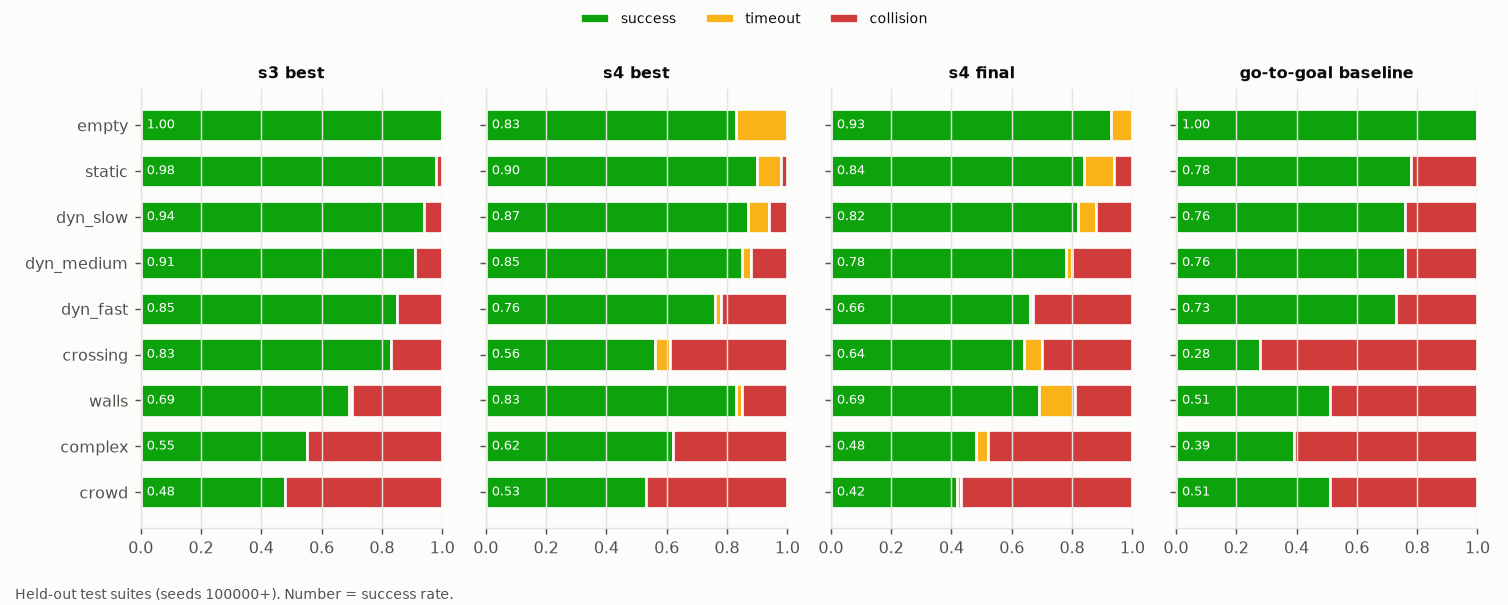
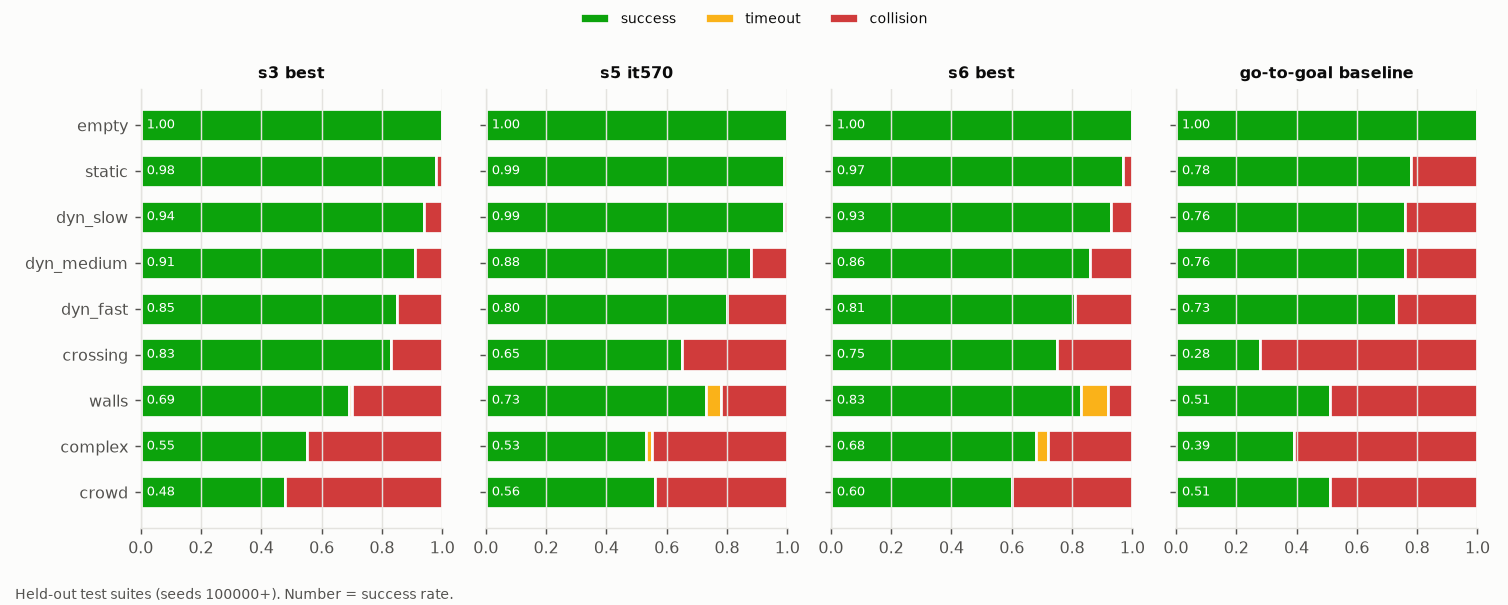
Stage 6 results: README table, updated figures
The s6 best checkpoint (iteration 1770) is tested on the same 100-episode suites as s5.
Wall collisions drop from 22 to 8, crossings go from 0.65 to 0.75 and complex scenes from 0.53 to 0.68.
plot_results now defaults to s3, s5, s6 and the go-to-goal baseline.

diff --git a/scripts/plot_results.py b/scripts/plot_results.py
@@ -3,7 +3,7 @@
 Usage:
   python scripts/plot_results.py                       # everything it can find, into figures/
   python scripts/plot_results.py --robust results/robust/s3_s4_baseline \\
-      --evals s3_best_100 s4_best s4_final gotogoal_100
+      --evals s3_best_100 s5_it570 s6_best gotogoal_100
 
 Inputs it reads (all optional, figures are skipped when their input is missing):
   logs/navrl/curriculum/<stage>/tb/       TensorBoard logs   -> training_curves.png
@@ -215,7 +215,7 @@ def main() -> None:
     ap = argparse.ArgumentParser()
     ap.add_argument("--runs", default=str(ROOT / "logs" / "navrl" / "curriculum"))
     ap.add_argument("--robust", default=str(ROOT / "results" / "robust" / "s3_s4_baseline"))
-    ap.add_argument("--evals", nargs="*", default=["s3_best_100", "s4_best", "s4_final", "gotogoal_100"])
+    ap.add_argument("--evals", nargs="*", default=["s3_best_100", "s5_it570", "s6_best", "gotogoal_100"])
     ap.add_argument("--out", default=str(ROOT / "figures"))
     args = ap.parse_args()
     out = Path(args.out)

diff --git a/README.md b/README.md
@@ -393,6 +393,7 @@ Regenerate all of them with `python scripts/plot_results.py` (it reads `logs/` a
 
 **Training curves.** Validation success and collision rate across the curriculum, stages run back to back.
 Stage 4 peaks around iteration 1200 of the stage and then gets worse, so more iterations alone don't help.
+Stages 5 and 6 train on a mix of all scene types, so their curves sit between the s3 and s4 levels.
 
 ![training curves](figures/training_curves.png)
 
@@ -595,7 +596,33 @@ Stage `s5_mix` addresses each of these (see Training).
 - **Still weak:** every dynamic-suite collision was with a mover; crossings dropped to 0.65; about 20 of
   every 100 wall-suite episodes ended in a wall collision. Stage 6 targets both.
 
-**Stage 6 (final policy):** to be filled in after training.
+**Stage 6 (final policy, best checkpoint at iteration 1770 of 2000), 100 test episodes per suite,
+same seeds as above:**
+
+| Suite | s6 success | s5 success | s6 collision | s5 collision | time to goal s5 -> s6 |
+|---|---|---|---|---|---|
+| empty | **1.00** | **1.00** | 0.00 | 0.00 | 9.7 -> 7.7 s |
+| static | 0.97 | **0.99** | 0.03 | 0.00 | 9.6 -> 7.7 s |
+| dyn_slow | 0.93 | **0.99** | 0.07 | 0.01 | 9.6 -> 8.0 s |
+| dyn_medium | 0.86 | **0.88** | 0.14 | 0.12 | 9.2 -> 7.6 s |
+| dyn_fast | **0.81** | 0.80 | 0.19 | 0.20 | 9.0 -> 7.5 s |
+| crossing | **0.75** | 0.65 | 0.25 | 0.35 | 10.8 -> 8.2 s |
+| walls | **0.83** | 0.73 | 0.08 | 0.22 | 9.8 -> 7.8 s |
+| complex | **0.68** | 0.53 | 0.28 | 0.45 | 8.2 -> 8.2 s |
+| crowd | **0.60** | 0.56 | 0.40 | 0.44 | 9.0 -> 7.6 s |
+
+- **Walls:** collisions dropped from 22 to 8 per 100 episodes. With 120 rays (3 degrees apart) thin
+  walls no longer slip between rays, which was the main s5 wall failure.
+- **Crossings:** 0.65 -> 0.75, so the extra crossing episodes recovered most of what s5 lost.
+- **Complex:** 0.53 -> 0.68, the largest gain and the only one clearly outside the noise
+  (about 2.2 standard errors; crossing and walls are about 1.6 each).
+- **Faster everywhere:** about 20% shorter time to goal. The price is a few more collisions with slow
+  movers (dyn_slow 0.99 -> 0.93) that s5 would have waited out.
+- **Still weak:** crowds (0.60) and fast movers. Most remaining failures are collisions with movers.
+
+During training the s6 collision rate looked flat (about 0.27). That is because the training mix itself
+is harder (two of every seven episodes have a mover aimed at the robot); the fixed test suites above are
+the fair comparison.
 
 ## Project layout
 
